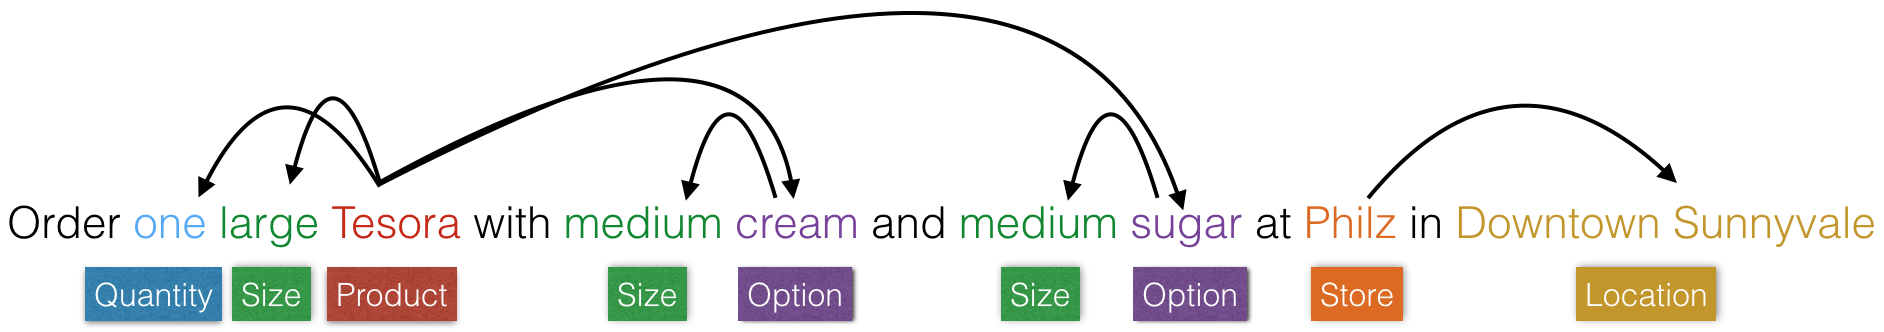
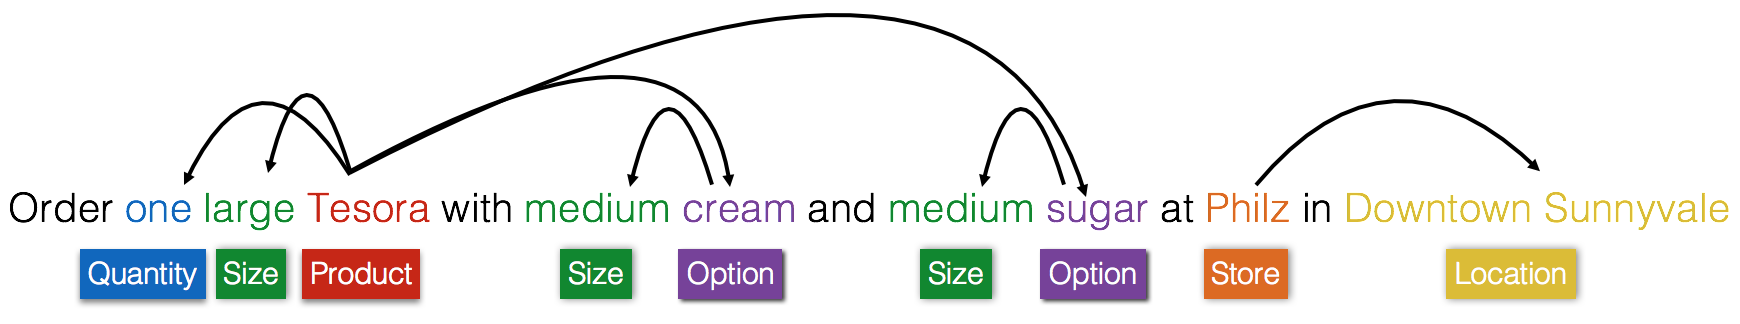
Finished draft of 10. Configure the Language Parser.

diff --git a/docs/source/configure_the_language_parser.rst b/docs/source/configure_the_language_parser.rst
@@ -1,38 +1,30 @@
 Configure the Language Parser
 =============================
 
-The last component within the Natural Language Processor is the **Language Parser**. Its job is to find relations between the extracted entities and group them into meaningful entity groups. The Parser analyzes the information provided by all the previous NLP models and outputs data structures called parse trees, that represent how different entites relate to each other. The figure below shows the Language Parser in action on a sample input.
+The last component within the Natural Language Processor is the **Language Parser**. Its job is to find relations between the extracted entities and group them into meaningful entity groups. The Parser analyzes the information provided by all the previous NLP models and outputs a data structure called the parse tree, that represents how different entites relate to each other. 
+
+Consider the use case where you not only want to check the hours of your local Kwik-e-Mart, but also order items to pick up from the store in advance. To handle this additional functionality, we would have to add a new entity type called ``product`` which is the name of the food item and other associated entities like ``size`` and ``quantity`` which provide more information about the order. The Language Parser takes these entities that are detected by the Entity Recognizer, and `parses <https://en.wikipedia.org/wiki/Parsing>`_ them into entity groups representing distinct meaningful real-world objects or concepts.
+
+Here's an example:
 
 .. image:: images/parse_example.png
 
-Each parse tree has a main entity as its root node and any related entities that describe the main entity further, as the root's children. In linguistics, the main entity is called the `Head <https://en.wikipedia.org/wiki/Head_(linguistics)>`_ and the related entities are called `Dependents <https://en.wikipedia.org/wiki/Dependency_grammar>`_. In the figure above, the input query has two main pieces of information - the product information and the store information. Correspondingly, we have two parse trees, one with the ``Product`` entity type as its head and the other with the ``Store`` entity type. The ``Product`` entity has attributes like ``Quantity`` and ``Size`` that `modify <https://en.wikipedia.org/wiki/Grammatical_modifier>`_ it, and hence become its dependents in the tree. Similarly, the ``Store`` entity has ``Location`` as a dependent.
+The parse tree is a collection of entity groups, with each group having a main entity and optionally, a set of related entities that further describe the main entity. In linguistics, the main entity is called the `Head <https://en.wikipedia.org/wiki/Head_(linguistics)>`_ and the related entities are called `Dependents <https://en.wikipedia.org/wiki/Dependency_grammar>`_. 
 
-The Language Parser thus completes the query understanding process by identifying the heads, their dependents and linking them together with into a number of logical units (parse trees) that can be used by downstream components to take appropriate actions and generate the responses necessary to fulfill the user's request. However, it's worth mentioning that not every scenario may need the Language Parser. For instance, in our simple "Store Information" app, there are only two kinds of entities - ``Date`` and ``Name``, which are distinct and unrelated pieces of information. Thus, running the parser would just yield two singleton parse trees having heads, but no dependents. The Parser becomes more crucial when you have a complex app that supports complicated natural language queries like the example in the figure above. 
+The example query above contains three main pieces of information - the two products that the user wants to order and the name of the store they want place the order at. Correspondingly, we have three entity groups, two of them with ``product`` entities as heads and one with the ``store_name`` entity. The ``product`` entity has attributes like ``quantity`` and ``size`` that `modify <https://en.wikipedia.org/wiki/Grammatical_modifier>`_ it, and are hence grouped together with the head as its dependents.
 
-`Parsing <https://en.wikipedia.org/wiki/Parsing>`_ is a well-studied problem in Computer Science and there are several approaches used in practice, depending on the end goal and the depth of linguistic analysis required. The methods range from simple ones like rule-based and regex-based parsing to more sophisticated techniques like `Syntactic Parsing <http://spark-public.s3.amazonaws.com/nlp/slides/Parsing-Intro.pdf>`_ and `Semantic parsing <https://web.stanford.edu/class/cs224u/materials/cs224u-2016-intro-semparse.pdf>`_. 
+`Natural Language Parsing <https://en.wikipedia.org/wiki/Natural_language_parsing>`_ is a long-studied problem in Computer Science and there are different approaches used, depending on the end goal and the depth of linguistic analysis required. The methods range from simple ones like rule-based and regex-based parsing to more sophisticated techniques like `Syntactic Parsing <http://spark-public.s3.amazonaws.com/nlp/slides/Parsing-Intro.pdf>`_ and `Semantic parsing <https://web.stanford.edu/class/cs224u/materials/cs224u-2016-intro-semparse.pdf>`_. While parsing remains an active area of research, commercial applications like Siri, Cortana, Alexa and Google Assistant use fairly standard conventional approaches that work well in practice and are easy to build, debug and maintain. Such systems almost always have a good rule-based parser, optionally augmented by a statistical parser if enough human-annotated parsed data is available for training.
 
-The Language Parser in Workbench is a `Dependency Parser <http://spark-public.s3.amazonaws.com/nlp/slides/Parsing-Dependency.pdf>`_ (a kind of Syntactic Parser) which could either be trained statistically with annotated data or run in a config-driven rule-based fashion in the absence of training data. The latter is usually the quickest way to get started since it merely requires creating parser configuration files that define the expected dependency relations between your different entities. These files must be created per instance and named ``parser.config``. They are placed alongside the ``labeled_queries`` folder for that intent in your data directory.
+The Language Parser in Workbench is versatile enough to support everything from the simplest rule-based systems to state-of-the-art syntactic and semantic parsers. Out of the box, Workbench comes with a config-driven `Dependency Parser <http://spark-public.s3.amazonaws.com/nlp/slides/Parsing-Dependency.pdf>`_ (a kind of Syntactic Parser), similar to what's used in most commercial conversational applications today. Getting started with the parser merely requires creating a configuration file named ``parser_config.json`` that defines the expected dependency relations between your different entities. 
 
-Below is an example config file that instructs the Parser to extract the trees described in the figure above.
+Here is the ``parser_config.json`` file that instructs the Parser to extract the entity groups described in the figure above.
 
-.. code-block:: text
+.. code-block:: javascript
 
-  tree:
-    name:'product_info'
-    head:
-      type: 'product'
-    dependent:
-      type: 'quantity'
-    dependent:
-      type: 'size'
+  {
+    "product": ["quantity", "size"]
+  }
 
-  tree:
-    name: 'store_info'
-    head:
-      type: 'store'
-    dependent:
-      type: 'location'
+This tells the Parser that ``product`` is a head entity and ``quantity`` and ``size`` are its dependents. By default, the Parser creates a distinct entity group for any entity that it can't find a head for. Hence the ``store_name`` entity gets its own group. The :doc:`Language Parser User Manual </language_parsing>` has more details on the different options available to fine-tune the behavior of the config-driven parser. It also covers how to define your own custom parsing logic and train a state-of-the-art statistical parser using annotated data.
 
-Finally, Workbench also offers the flexibility to define your own custom parsing logic that can be run instead of the default config-driven dependency parser. The :doc:`Language Parser User Guide </language_parsing>` in Section 3 has more details on the different options for our config-driven parser and how to implement your own custom parser.
-
-
+The Language Parser completes the query understanding process by identifying the heads, their dependents and linking them together with into a number of logical units (entity groups) that can be used by downstream components to take appropriate actions and generate the responses necessary to fulfill the user's request. However, it's worth mentioning that not every scenario may need the Language Parser. For instance, in our simple "Kwik-e-Mart Store Information" app, there are only two kinds of entities - ``date`` and ``store_name``, which are distinct and unrelated pieces of information. Thus, running the parser would just yield two singleton entity groups having heads, but no dependents. The Parser becomes more crucial when you have a complex app that supports complicated natural language queries like the example we discussed above.

diff --git a/docs/source/language_parsing.rst b/docs/source/language_parsing.rst
@@ -13,36 +13,18 @@ E.g. Here are relations between entities in a query represented in the form of a
 
 The entity groups can also be represented as parse trees:
 
-.. image:: images/parse_trees.png
+.. image:: images/parse_tree.png
 
 Our parser can be told to extract trees of this kind by providing a parser.config file that describes which entity types are the Heads, which ones are the Dependents, and which Dependents go with which Heads.
 
-E.g. Parser configuration representing the above two parse trees: 
+E.g. Parser configuration representing the above two entity groups: 
 
-.. code-block:: text
+.. code-block:: javascript
 
-	tree:
-		name: 'product_info'
-		head:
-			type: 'product'
-		dependent:
-			type: 'quantity'
-		dependent:
-			type: 'size'
-		dependent:
-			tree:
-				name: 'option_info'
-				head:
-					type: 'option'
-				dependent:
-					type: 'size'
-
-	tree: 
-		name:'store_info'
-		head:
-			type: 'store'
-		dependent:
-			type: 'location'
+  {
+    "product": ["quantity", "size", {"option" : "size"}],
+    "store": ["location"]
+  }
 
 .. note::
  	- At a minimum, a name and a head are required to define a parse tree. You can optionally define dependents for the head.
@@ -52,23 +34,26 @@ E.g. Parser configuration representing the above two parse trees:
 
 Defining your trees in the above format should generally be enough and the MindMeld Parser will do a reasonable job of parsing the input according to the given tree specifications. However, in some cases, you may want a more fine-grained control of the parsing settings. Below is the full set of properties you can optionally define in your parser.config file to fine-tune the parser behavior.
 
-.. code-block:: text
+.. code-block:: javascript
 
-	tree:
-		name: '[TREE NAME]'
-		head:
-			type: '[EXPECTED HEAD ENTITY TYPE]'
-			role: '[EXPECTED HEAD ENTITY ROLE]'
-		dependent:
-			type: '[EXPECTED MODIFIER ENTITY TYPE]'
-			role: '[EXPECTED MODIFIER ENTITY ROLE]'
-			left_attachment = [BOOLEAN]
-			left_attachment_distance = [INTEGER]
-			right_attachment = [BOOLEAN]
-			right_attachment_distance = [INTEGER]
-			minimum_instances = [INTEGER]
-			maximum_instances = [INTEGER]
-			precedence: ['left' or 'right']
+  {
+    "EXPECTED HEAD ENTITY TYPE": {
+      "role": "[EXPECTED HEAD ENTITY ROLE]",
+      "dependents": [{
+        "[EXPECTED DEPENDENT ENTITY TYPE]": {
+          "role": "[EXPECTED DEPENDENT ENTITY ROLE]",
+          "left_attachment": BOOLEAN,
+          "left_attachment_distance": INTEGER,
+          "right_attachment": BOOLEAN,
+          "right_attachment_distance": INTEGER,
+          "minimum_instances": INTEGER,
+          "maximum_instances": INTEGER,
+          "precedence": "left"/"right"
+        }
+      }]
+    }
+  }
+
 
 Let's take a look at each of the settings one by one.
 
